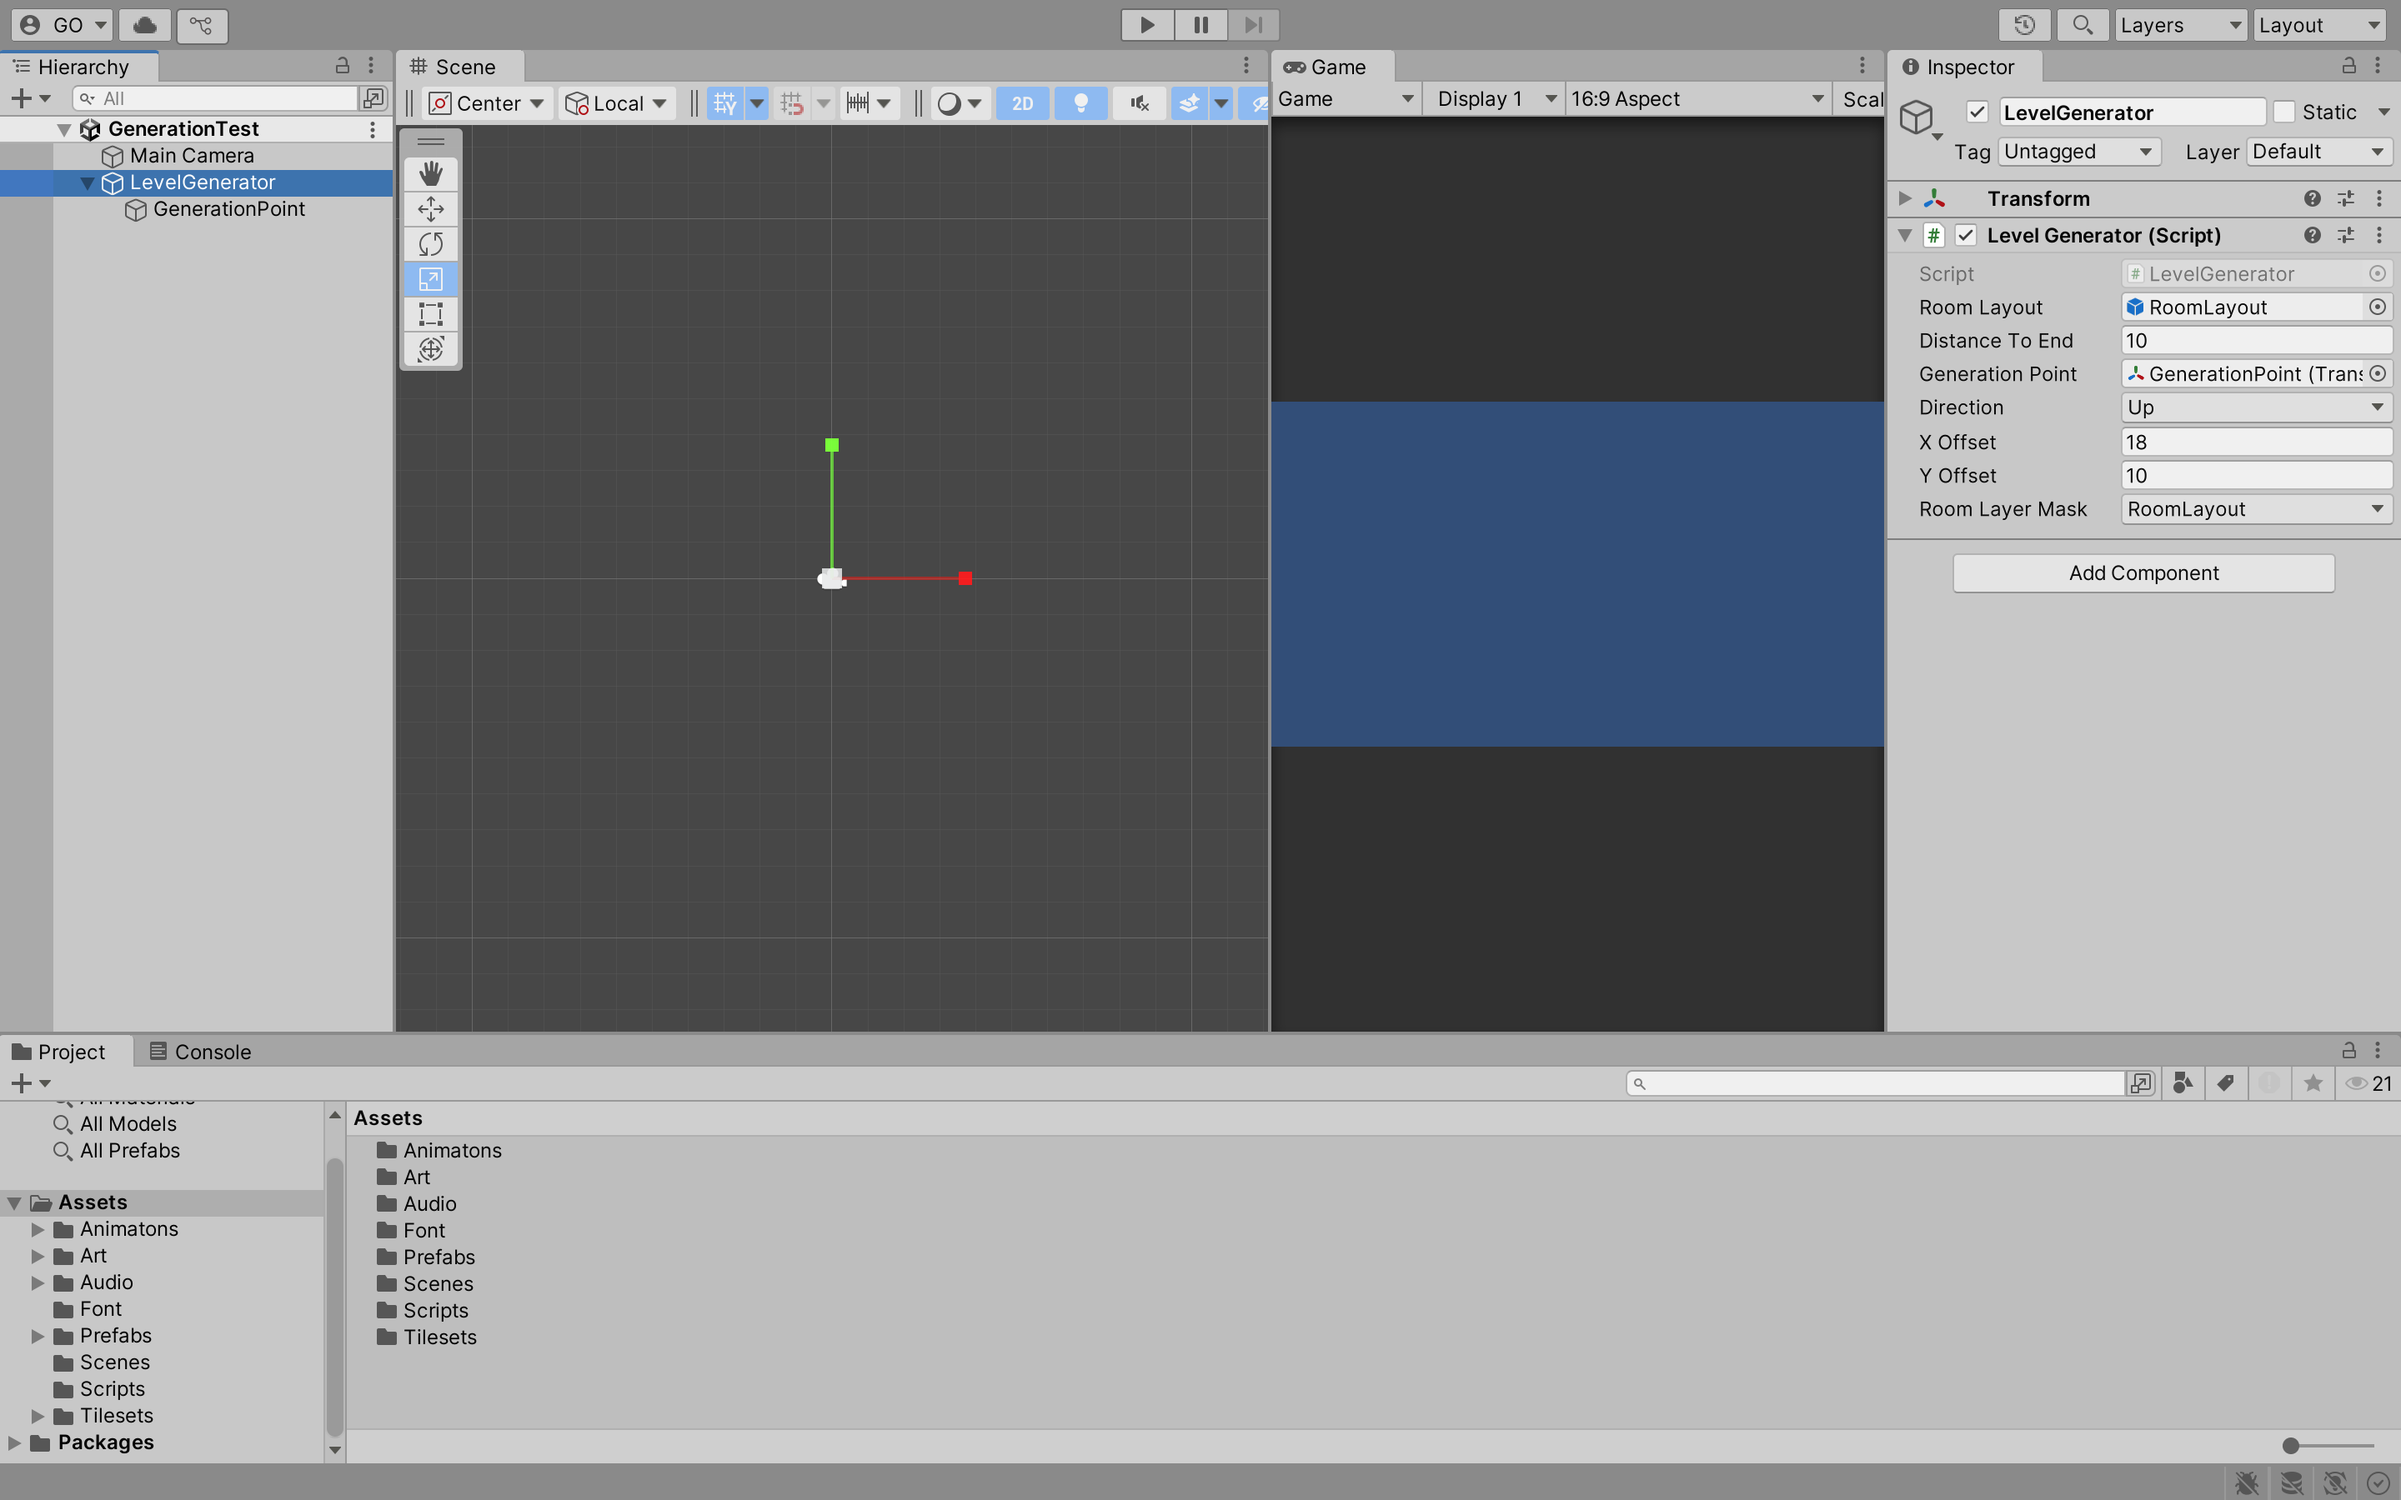
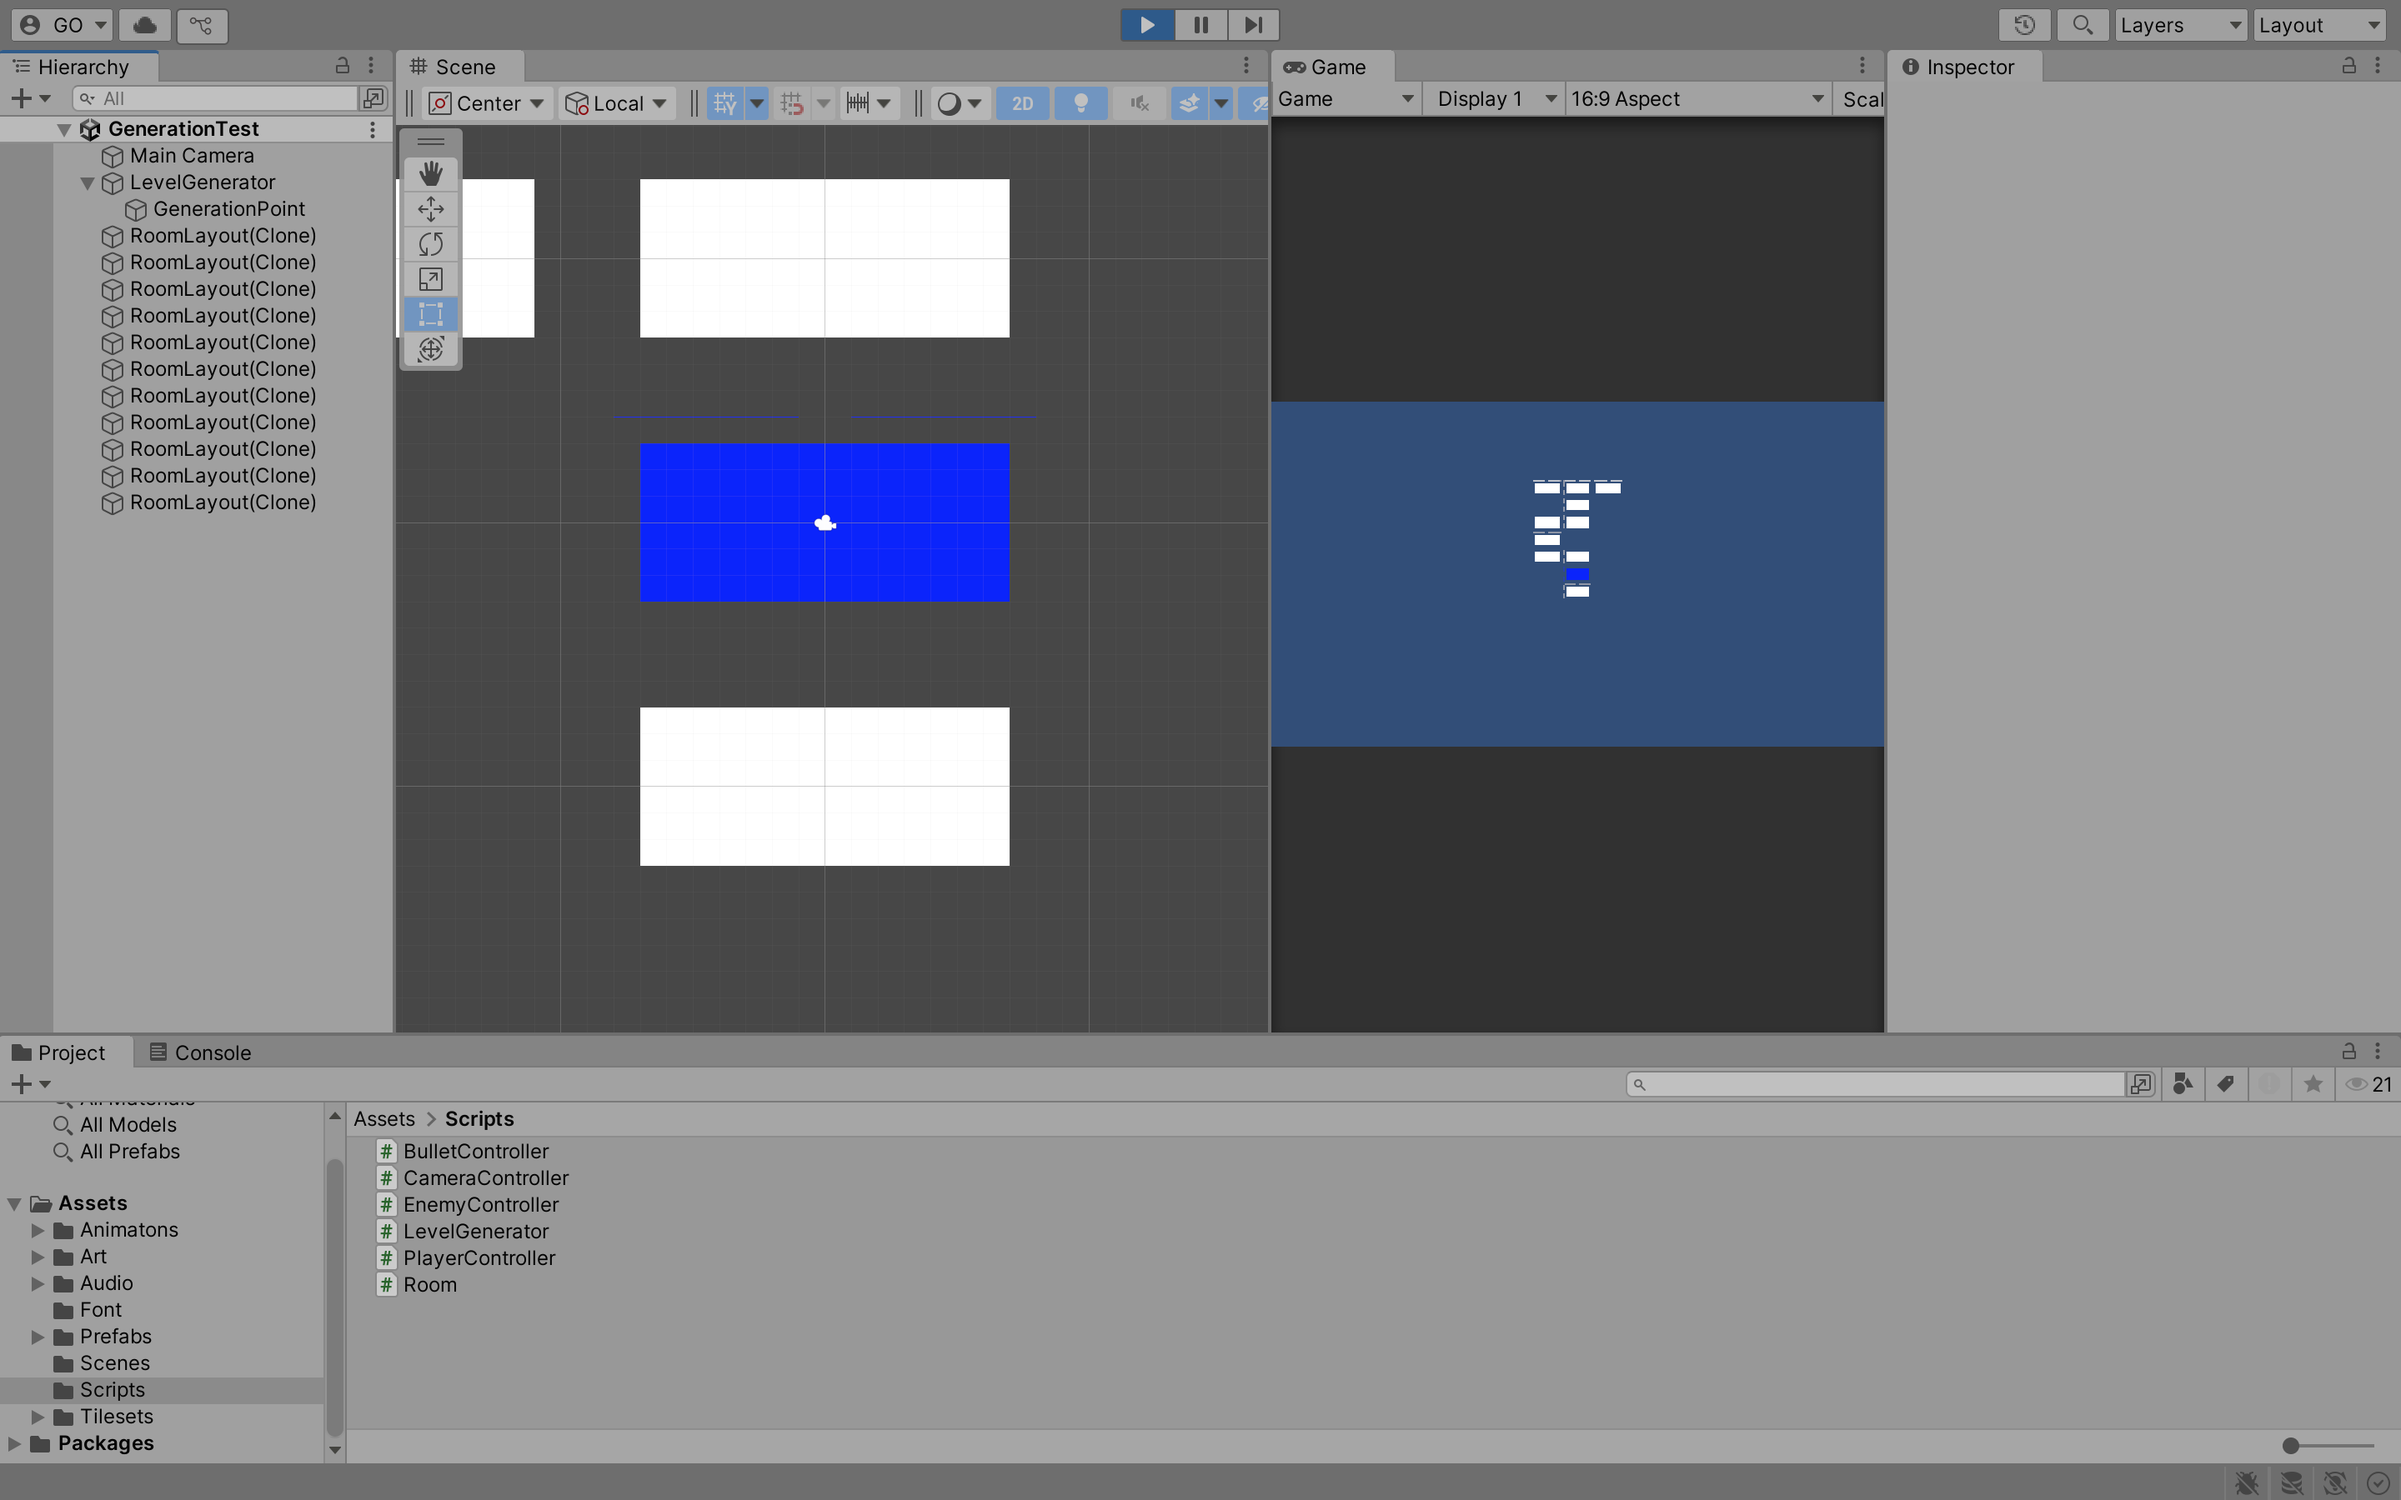
update

diff --git a/lecture-notes/10-room-random-generation.md b/lecture-notes/10-room-random-generation.md
@@ -199,4 +199,7 @@ In the **Hierarchy** window, click on the `LevelGenerator` **Game Object** and i
 
 Click on the `Play` button. You should see a series of rooms generated in a random direction without overlapping. Press `R` to regenerate the rooms.
 
+![](../resources/img/10-images/10-image-7.png)
+
 ---
+
